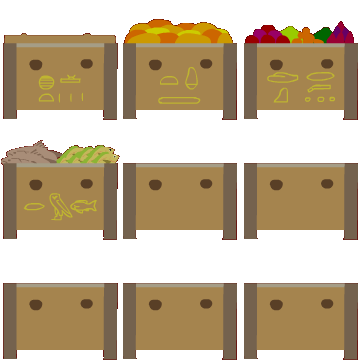
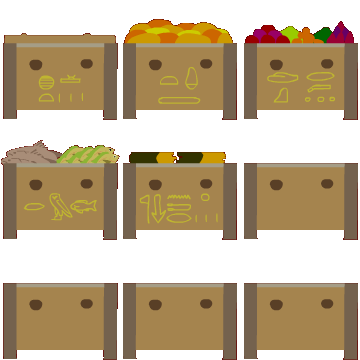
Praise Soybek!

Changed region(s): [[0.3361, 0.3972, 0.6417, 0.4583], [0.3972, 0.5194, 0.55, 0.6111], [0.55, 0.5194, 0.5806, 0.55]]

diff --git a/js/text.js b/js/text.js
@@ -127,7 +127,7 @@ const texts = {
     "maahes": "Maahes was a lion-headed god of war and son of the god Ptah and either Bastet or Sekhmet, depending on the mythology. | It was said that as the sun god Ra went on his nightly voyages, Maahes would fight off Apep, the serpent god of chaos. | The duality of chaos against order was an important part of Ancient Egyptian beliefs; one could not exist without the other. | Chaos was called Isfet and order was called Ma'at. The dead needed to be purified of Isfet before they could be reborn in the afterlife.", 
     "sekhmet": "Sekhmet was a lioness goddess of healing. She was also the fiercest hunter in Ancient Egypt. | The sun god Ra sent her to punish mankind for failing to uphold order, but Sekhmet became overcome with bloodlust and took things too far. | Sekhmet refused to end her rampage, so the other gods spilled a mix of beer and pomegranate juice in Sekhmet's path. | Sekhmet, thinking it was blood, drank it up, and eventually passed out from the alcohol.", 
     "ptah": "Ptah is the guardian of Memphis, a creator god who created the universe by thinking it and giving it life with his words. | He is the god of craftsmen, carpentry, and builders. He is married to the lioness god Sekhmet, and with her he had his son, Nefertum, the a beautiful man made from a lotus flower.", 
-    "sobek": "holy crap lois it's sobek",
+    "sobek": "Sobek, the crocodile god of power and fertility. Like crocodiles, he was an aggressive deity. | At his temple in Shedet, priests kept and cared for a royal crocodile they dubbed the Petsuchos - the son of Sobek. | This Petsuchos was worshipped as a manifestation of Sobek, and when it died, it was mummified and a new son of Sobek was found.",
 
     // Crops
     "corn0": ["Corn in Ancient Egypt? That doesn't sound right. | !Corn, or maize, was first domesticated in Mexico over 6000 years ago.", 
@@ -188,11 +188,24 @@ const texts = {
     "amenkenNo": "I guess I'll have to find some beeswax elsewhere.",
     "amenkenLack": "Oh, it seems you don't have enough beeswax. That's okay, I'll check with the other beekeepers.",
     "amenkenGive": "Great! Thank you! This will help out a lot! | !In Ancient Egypt, beeswax was used for many things, like making candles, medicine, and sealants (things that keep water out)!",
-    "amenken1b": "Can you provide me with 10 beeswax? I can give you 2 gold for it! | ?amenken1",
+    "amenken1b": "Can you provide me with 10 beeswax? I can give you 3 gold for it! | ?amenken1",
     "amenken2": "Thanks for that beeswax! It will surely come in handy!",
-    "x": "",
-    "y": "",
-    "z": ""
+
+    // People - Shedet
+    "sobekpriest": "Praise Sobek, the crocodile god who protects us from the dangers of the Nile! | You look like the Sobek-loving sort, given that you are a human, and all humans should love Sobek! | @Sobek's got quite the fanbase here, huh? | Of course, Shedet is home to Sobek's temple, and also a bunch of crocodiles! | You should obviously give something to Sobek himself at the altar over there, but if you're an EXTRA good person, you might be inclined to feed some of the local crocodiles, too! | Just toss those bad boys some fish, and maybe something good will happen if you do!",
+    "crocodil": "aaAAaaAaaa | ~croc",
+    "crocodil2": "@It looks like it wants some food. | ?croc",
+    "crocodilB": "aaAAAaaaAaa | ?croc",
+    "crocodilNo": "aaa! aaaAA! :(",
+    "crocodilLack": "@I don't have that much fish. I should get some more fish and come back later.",
+    "crocodilWon": "aaemmmmmmmmm | ~croc2",
+    "incenseshop": "Oy oy! A beekeeper, you are! It's obvious from the way you walk. | @The way I walk? | Yes, you walk nothing like a beekeeper! But you must need some incense, yes? | Incense produces smoke, which can be used to calm bees down, allowing beekeepers to retrieve their honey without getting stung! I'll give you 5 sticks of incense for one piece of gold. What do you say? | ?incenseShop",
+    "incenseshopNo": "Your loss! If you change your mind, come back later!", 
+    "incenseshopb": "?incenseShop", 
+    "incenseshopLack": "Hey hey! You don't have any gold! If you want free incense, become a god! Otherwise, pay up!", 
+    "incenseshopBuy": "Pleasure doing business with you, ma'am! Come again whenever you need more incense!", 
+    "obelisk": "This obelisk - a stone pillar - was set up by Senusret I during the 12th Dynasty to celebrate his 30th year as Pharaoh. | To this day, it still stands as the oldest standing obelisk in Egypt.", 
+    "": ""
 };
 
 const choices = {
@@ -259,14 +272,34 @@ const choices = {
             }
         }
     ],
-
+    "?croc": [
+        {
+            choice: "Give 5 fish.",
+            action: function() {
+                if(player.HasItem("fish", 5)) {
+                    player.RemoveItem("fish", 5);
+                    textHandler.MoveToNewText("crocodilWon");
+                    player.ClearChievo("Shedet", "crocodil");
+                } else {
+                    land.target.text = "crocodilB";
+                    textHandler.MoveToNewText("crocodilLack");
+                }
+            }
+        }, {
+            choice: "Do not give fish.",
+            action: function() {
+                land.target.text = "crocodilB";
+                textHandler.MoveToNewText("crocodilNo");
+            }
+        }
+    ],
     "?amenken1": [
         {
             choice: "Trade 10 beeswax.",
             action: function() {
                 if(player.HasItem("beeswax", 10)) {
                     player.RemoveItem("beeswax", 10);
-                    player.AddItem("gold", 2);
+                    player.AddItem("gold", 3);
                     textHandler.MoveToNewText("amenkenGive");
                     land.target.text = "amenken2";
                     player.ClearChievo("Memphis", "biff");
@@ -281,6 +314,29 @@ const choices = {
             action: function() {
                 land.target.text = "amenken1b";
                 textHandler.MoveToNewText("amenkenNo");
+            }
+        }
+    ],
+    "?incenseShop": [
+        {
+            choice: "Buy 5 incense for 1 gold.",
+            action: function() {
+                if(player.HasItem("gold", 1)) {
+                    player.RemoveItem("gold", 1);
+                    player.AddItem("incense", 5);
+                    textHandler.MoveToNewText("incenseshopBuy");
+                    land.target.text = "incenseshopb";
+                } else {
+                    land.target.text = "incenseshopb";
+                    textHandler.MoveToNewText("incenseshopLack");
+                }
+            }
+        },
+        {
+            choice: "Don't buy incense.",
+            action: function() {
+                land.target.text = "incenseshopb";
+                textHandler.MoveToNewText("incenseshopNo");
             }
         }
     ]
@@ -465,6 +521,75 @@ const cutscenes = {
                     const meIndex = land.entities.findIndex(e => e.id === "tutServant");
                     land.entities.splice(meIndex, 1);
                     land.entities.push({ type: "boat", sprite: "", x: 400 });
+                }
+            }
+        };
+    },
+    "~croc": function() {
+        land.inDialogue = false;
+        const croc = land.entities.filter(e => e.id === "crocodil")[0];
+        land.cutscene = {
+            active: true, state: 0, iter: 0, keepPlayer: true, 
+            Process: function() {
+                if(this.state === 0) {
+                    if(++this.iter === 5) {
+                        croc.sy = 1;
+                        this.iter = 0;
+                        this.state = 1;
+                    }
+                } else if(this.state === 1) {
+                    if(++this.iter === 5) {
+                        croc.sy = 2;
+                        this.iter = 0;
+                        this.state = 2;
+                    }
+                } else if(this.state === 2) {
+                    if(++this.iter === 5) {
+                        this.active = false;
+                        textHandler.ShowText("Crocodile", "crocodil2");
+                    }
+                }
+            }
+        };
+    },
+    "~croc2": function() {
+        land.inDialogue = false;
+        const croc = land.entities.filter(e => e.id === "crocodil")[0];
+        land.cutscene = {
+            active: true, state: 0, iter: 0, keepPlayer: true, 
+            Process: function() {
+                if(this.state === 0) {
+                    if(++this.iter === 5) {
+                        croc.sy = 1;
+                        this.iter = 0;
+                        this.state = 1;
+                    }
+                } else if(this.state === 1) {
+                    if(++this.iter === 5) {
+                        croc.sy = 0;
+                        this.iter = 0;
+                        this.state = 2;
+                    }
+                } else if(this.state === 2) {
+                    if(++this.iter === 5) {
+                        croc.anim = animHelpers.GetAnim("croc");
+                        croc.anim.ForceMove();
+                        croc.y = 0;
+                        this.state = 3;
+                        this.iter = 0;
+                    }
+                } else if(this.state === 3) {
+                    croc.x += 2;
+                    croc.y += (this.iter % 15 === 0) ? 1 : 0;
+                    if(++this.iter > 200) {
+                        this.active = false;
+                        const meIndex = land.entities.findIndex(e => e.id === "crocodil");
+                        land.entities.splice(meIndex, 1);
+                        const meIndex2 = land.entities.findIndex(e => e.id === "crocodilI");
+                        land.entities.splice(meIndex2, 1);
+                        maxX["Shedet"] = 5000;
+                        land.maxX = 5000;
+                    }
                 }
             }
         };

diff --git a/js/things.js b/js/things.js
@@ -46,7 +46,7 @@ const things = {
     "cat5": { type: "bg", sprite: "cat5", anim: "cat", dir: 1, movement: "cat4" },
     "cat6": { type: "bg", sprite: "cat6", anim: "cat", dir: 1, movement: "cat1" },
 
-    /* --- PEOPLE --- */
+    /* --- REGIONAL --- */
     "boff": { type: "person", sprite: "farmboy", anim: "regular", dir: 0, name: "Parennefer", text: "amenken1" },
     // Taremu
     "fishboy": { type: "person", sprite: "peopleMisc", sx: 0, noDir: true, name: "Nenwef", text: "fishboy" },
@@ -59,12 +59,17 @@ const things = {
     "teacher": { type: "person", sprite: "peopleMisc", sx: 0, sy: 2, dir: 0, name: "Bebi", text: "teacher" },
     "biff": { type: "person", sprite: "pers2tiny", anim: "regular", dir: 1, name: "Amenken", text: "amenken1", textAlt: "amenken2", movement: "hume1" },
     // Shedet
-    "sobekpriest": { type: "person", sprite: "peopleMisc", sx: 2, sy: 2, dir: 0, name: "Huy", text: "teacher" },
+    "sobekpriest": { type: "person", sprite: "peopleMisc", sx: 2, sy: 2, dir: 0, name: "Huy", text: "sobekpriest" },
+    "crocodil": { type: "bg", sprite: "crocodil", dir: 0 },
+    "crocodilI": { type: "person", sprite: "", name: "Crocodile", text: "crocodil" },
+    "incenseVendor": { type: "person", sprite: "shopkeeps", sy: 1, dir: 0, name: "Senisonbe", text: "incenseshop" },
+    "obelisk": { type: "observable", sprite: "obelisk", name: "Obelisk", text: "obelisk" }, 
 
     /* --- SHOP STUFF --- */
     "boxFish": { type: "bg", sprite: "justabox", sy: 1, background: true },
     "boxBread": { type: "bg", sprite: "justabox", sx: 1, background: true },
     "boxFruit": { type: "bg", sprite: "justabox", sx: 2, background: true },
+    "boxIncense": { type: "bg", sprite: "justabox", sx: 1, sy: 1, background: true },
 
     /* --- GODS --- */
     "bastet": { type: "bg", sprite: "peopleMisc", sx: 1, y: -300 },

diff --git a/js/places.js b/js/places.js
@@ -31,6 +31,7 @@ const maxX = {
     "CutsceneThebes": 5800,
     "Taremu": 5565,
     "Memphis": 5180,
+    "Shedet": 3735
 };
 function AddTemple(arr, x, w) {
     arr.push({ x: x, id: "templeL" });
@@ -105,6 +106,11 @@ const places = {
         const res = [
             { x: 3500, id: "sobek" }, { x: 3500, id: "sobekAltar" },
             { x: 3900, id: "sobekpriest"},
+            { x: 4500, id: "crocodil"},
+            { x: 4300, id: "crocodilI"},
+            { x: 2885, id: "boxIncense" },
+            { x: 2958, id: "incenseVendor" },
+            { x: 2000, id: "obelisk" },
             { x: 2450, id: "puddle" },
             { x: 2550, id: "puddle" },
             { x: 4500, id: "puddle" },
@@ -119,20 +125,21 @@ const places = {
         ];
         AddTemple(res, 3000, 4);
         for(let x = 0; x < 8; x++) { res.push({ x: 800 + x * (40 + x), y: Math.floor(30 * Math.random()), id: "chamomile" }); }
-        for(let x = 0; x < 12; x++) { res.push({ x: 1220 + x * (50 + x), id: "barley" }); }
+        for(let x = 0; x < 6; x++) { res.push({ x: 1220 + x * (50 + x), id: "barley" }); }
+        for(let x = 0; x < 8; x++) { res.push({ x: 5000 + x * (62 + x), y: Math.floor(5 * Math.random()), id: "chrysanthemum" }); }
         return res;
     }(),
     "Herakleopolis": [],  
     "Hermopolis": [],  
     "Abydos": [],  
-    "Thebes": [
+    "Thebes": [ // https://en.wikipedia.org/wiki/Amenhotep_III
         { x: 1100, id: "date" },
         { x: 1400, id: "biff" }
     ],
     "Kom Ombo": [],  
     "Elephantine": [],  
     "Abu Simbel": [],  
-    "Napata": [],  
+    "Napata": [], // https://en.wikipedia.org/wiki/Merymose
     "Testbench": [
         { x: 700, id: "bluelotus" },
         { x: 800, id: "whitelotus" },

diff --git a/js/boat.js b/js/boat.js
@@ -2,18 +2,18 @@ const positions = [ // name, x, y, distance from previous
     ["Taremu", 495, 155, 2], // Taremu (Land of Fish) near Heliopolis  Leontopolis
     ["Memphis", 475, 180, 1], 
     ["Shedet", 445, 214, 2], // Crocodilopolis
-    ["Herakleopolis", 455, 245, 1], 
-    ["Hermopolis", 475, 285, 2], 
+    //["Herakleopolis", 455, 245, 1], 
+    //["Hermopolis", 475, 285, 2], 
     ["Abydos", 515, 325, 3], 
     ["Thebes", 535, 360, 3],
-    ["Kom Ombo", 545, 410, 3], // Nubt, also near Syene
+    //["Kom Ombo", 545, 410, 3], // Nubt, also near Syene
     ["Elephantine", 535, 440, 1], 
-    ["Abu Simbel", 485, 490, 4], 
+    //["Abu Simbel", 485, 490, 4], 
     ["Napata", 495, 650, 10]
 ];
 const boat = {
     animIdx: 0, freeMovement: true, yPos: 650, btnY: 350,//gameIdx: 0, 
-    selectingLocation: true, currentPos: 6, nextPos: 6, waterIdx: 0, 
+    selectingLocation: true, currentPos: 4, nextPos: 4, waterIdx: 0, 
     inDialogue: false, inChoice: false, isRowing: false, 
     isSmoking: false, smonkAnim: null, honeyCache: [], daysTravelled: 0, 
     playerX: 500, playerDir: 0, bees: [], target: {}, 

diff --git a/js/main.js b/js/main.js
@@ -78,6 +78,8 @@ http://hieroglyphs.net/cgi/dictionary_lookup_free.pl
 https://www.britannica.com/place/Nile-River/Plant-and-animal-life
 https://en.wikipedia.org/wiki/Hyksos
 http://www.legendsandchronicles.com/ancient-civilizations/ancient-egypt/ancient-egyptian-education/
+https://www.aldokkan.com/geography/fayum.htm
+https://fayoumegypt.com/obelisk-of-senusret-i/
 
 https://www.ancient.eu/amun/
 https://en.wikipedia.org/wiki/Lettuce#History
@@ -111,6 +113,7 @@ https://academic.oup.com/jn/article/131/3/951S/4687053#111851571
 https://beeaware.org.au/pollination/pollinator-reliant-crops/onions/
 https://www.onions-usa.org/all-about-onions/history-of-onions
 https://www.ancient.eu/article/1026/clergy-priests--priestesses-in-ancient-egypt/
+https://ancientstandard.com/2007/07/02/come-to-crocodilopolis-no-we-are-not-making-this-up-3000-%e2%80%93-30-bc/
 
 http://pcela.rs/Egyptian_Beekeeping_1.htm
 https://egyptmanchester.wordpress.com/2012/08/10/beekeeping-in-ancient-egypt-and-today/

diff --git a/js/jraphics.js b/js/jraphics.js
@@ -43,7 +43,9 @@ const sheetInfo = {
     "altar": { w: 100, h: 120 },
     "map": { w: 1024, h: 896 }, // https://en.wikipedia.org/wiki/File:Egypt_1450_BC.svg https://pixabay.com/photos/paper-old-texture-parchment-1074131/
     "hive": { w: 110, h: 109 },
-    "ladder": { w: 121, h: 204 }
+    "ladder": { w: 121, h: 204 },
+    "crocodil": { w: 273, h: 100 },
+    "obelisk": { w: 168, h: 589 }
 };
 for(let i = 0; i <= 4; i++) { sheetInfo["bg" + i] = { w: 3584, h: 896 }; } // https://opengameart.org/content/bevouliin-pyramid-free-game-background-for-game-developers
 for(let i = 0; i <= 3; i++) { sheetInfo["bgM" + i] = { w: 3584, h: 896 }; } // https://opengameart.org/content/classical-ruin-tiles-0

diff --git a/index.html b/index.html
@@ -1,11 +1,15 @@
 <html>
     <!--
         TODO: 
-            needed for altars: beer or pomegranate juice (sekhmet)
-            some way to see types of honey?
+            needed for altars:
+                sekhmet:    beer or pomegranate juice
+                sobek:      milk
+                crocodile:  fish
+                some way to see types of honey?
+                renewable way to get gold (or at least more than one way to get it)
 
             lettuce, crocodiles, vases, mummies
-            SAVE CHARACTER ACTIONS
+            save game
             loading/title screen
     -->
     <head>

diff --git a/js/land.js b/js/land.js
@@ -138,6 +138,9 @@ const land = {
         }
         if(land.cutscene.active) {
             land.cutscene.Process();
+            if(land.cutscene.keepPlayer === true) {
+                gfx.DrawSprite2(land.modernTimes ? "playerModern" : "player", land.playerAnim.GetFrame(land.playerDir), land.xOffset, land.GetYPos(land.playerX + land.xOffset), "characters");
+            }
         } else {
             gfx.DrawSprite2(land.modernTimes ? "playerModern" : "player", land.playerAnim.GetFrame(land.playerDir), land.xOffset, land.GetYPos(land.playerX + land.xOffset), "characters");
         }

diff --git a/js/anim.js b/js/anim.js
@@ -34,6 +34,8 @@ const animHelpers = {
     GetAnim: function(name) {
         if(name === "cat") {
             return new Animation(4, [0, 0], [[1, 0], [0, 1], [1, 1], [0, 2], [1, 2], [0, 3], [1, 3], [0, 4], [1, 4], [0, 5]]);
+        } else if(name === "croc") {
+            return new Animation(0, [0, 0], [[0, 0], [0, 3]], 1);
         } else if(name === "row") {
             return new Animation(0, [0, 0], [[1, 0], [0, 1], [1, 1], [0, 0]], 3);
         } else if(name === "smonk") {

diff --git a/js/player.js b/js/player.js
@@ -21,7 +21,7 @@ let player = {
     chievos: {
         "Taremu": ["shop2", "bastetAltar", "sekhmetAltar", "maahesAltar"],
         "Memphis": ["biff", "ptahAltar"],
-        "Shedet": ["sobekAltar"]
+        "Shedet": ["sobekAltar", "crocodil"]
     },
     ClearChievo: function(place, id) {
         player.clearedChievos.push(id);
